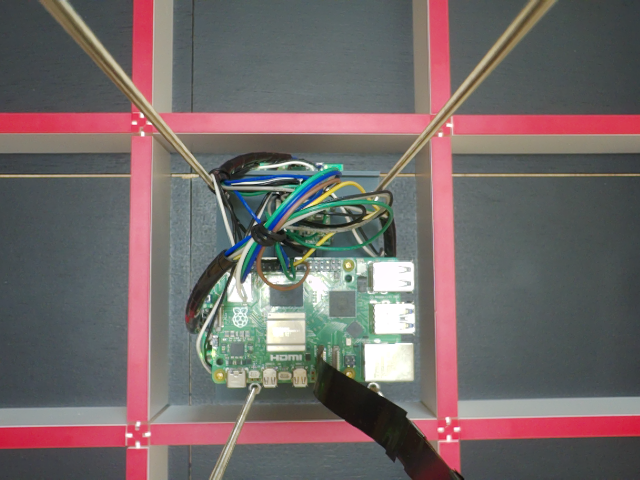
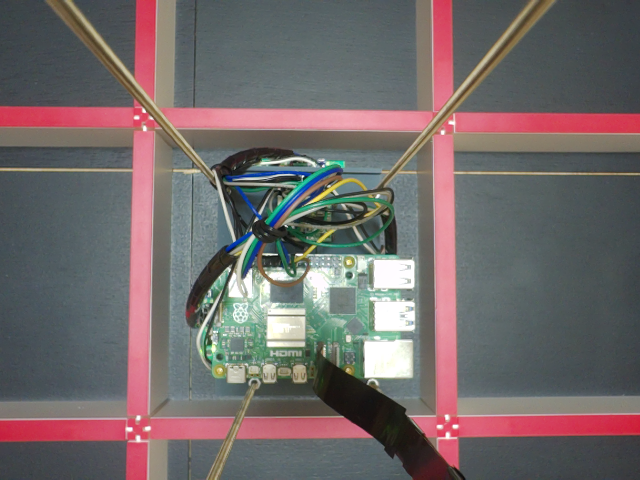
M6 #87: 傾き測定に当てはめの質と符号を足し、調整の指示を出す
実機で調整後に測り直したところ **ロールがほとんど動かなかった** (2.30->2.26°)。
測定側を検証できるようにする。

- **当てはめ残差**を出す。透視なら帯は 1 点で交わるはずなので、交わらせるのに要る
  回転の RMS が信号に対して小さくなければ、測っているのは傾きではない
  (自立式の壁が平行でないなど)。実測は 縦帯 残差 0.41° / 信号 3.62° で良好
- **帯が 3 本未満の軸は検証できない**ので `trustworthy` を False にする。
  横帯は画角の縦が 419mm しかなく 3 セル 540mm に届かないので、**構造的に 2 本しか
  写らない** = ロールは 1 枚では検証できない
- 消失点の当てはめを**帯の長さで重み付け**する。フレーム端の短い帯 (245px、他は
  600-900px) が梃子になって推定を振り回していた
- 傾きに**符号**を付ける (消失点は光軸が倒れている側にできる)。符号が無いと、
  機体を回して測り直しても「カメラ側」と「床側」を区別できない
- スペーサーをどちらへ何 mm 変えるかを出す。検証できていないときは調整させず、
  切り分けの手順 (180° / 90° 回転) を出す

Claude-Session: https://claude.ai/code/session_01HbxcKmGja78DirPqXizw8g

Changed region(s): [[0.0, 0.0, 1.0, 1.0], [0.5938, 0.9375, 0.625, 0.9688]]

diff --git a/src/krilly/perception/camera_tilt.py b/src/krilly/perception/camera_tilt.py
@@ -58,15 +58,36 @@ class TiltResult:
     vp_vertical: tuple[float, float] | None
     spread_h_deg: float | None  # 横帯どうしの角度のばらつき (収束の生の証拠)
     spread_v_deg: float | None
+    #: 透視モデルの当てはまり [deg]。各帯を消失点へ通すのに要る回転の RMS。
+    #: **これが傾きの角度に対して小さくないと、測っているのは傾きではない**
+    #: (自立式の壁が平行でない、レンズの歪曲が残っている、など)。
+    residual_h_deg: float | None
+    residual_v_deg: float | None
+
+    @property
+    def trustworthy(self) -> bool:
+        """透視モデルが信号に対して十分よく当てはまっているか (残差 < 信号の 1/3)。"""
+        for angle, resid in ((self.roll_deg, self.residual_h_deg),
+                             (self.pitch_deg, self.residual_v_deg)):
+            if angle is None or resid is None:
+                return False
+            if resid > abs(angle) / 3.0:
+                return False
+        return True
 
     def describe(self) -> str:
         def fmt(v, unit="°"):
             return "測定不能" if v is None else f"{v:+.2f}{unit}"
+        def q(angle, resid):
+            if angle is None or resid is None:
+                return ""
+            mark = "" if resid <= abs(angle) / 3.0 else "  <- 残差が大きい。要注意"
+            return f" (当てはめ残差 {resid:.2f}°){mark}"
         return (
             f"横帯 {len(self.horizontal)} 本 (角度の幅 {fmt(self.spread_h_deg)}) "
-            f"-> ロール {fmt(self.roll_deg)}\n"
+            f"-> ロール {fmt(self.roll_deg)}{q(self.roll_deg, self.residual_h_deg)}\n"
             f"縦帯 {len(self.vertical)} 本 (角度の幅 {fmt(self.spread_v_deg)}) "
-            f"-> ピッチ {fmt(self.pitch_deg)}"
+            f"-> ピッチ {fmt(self.pitch_deg)}{q(self.pitch_deg, self.residual_v_deg)}"
         )
 
 
@@ -143,15 +164,23 @@ def find_bands(mask: np.ndarray, horizontal: bool, min_length: int = 120,
     return out
 
 
-def vanishing_point(lines: list[Line]) -> tuple[float, float] | None:
-    """直線の束が最もよく交わる点 (最小二乗)。平行なら None。"""
+def vanishing_point(lines: list[Line], weighted: bool = True) -> tuple[float, float] | None:
+    """直線の束が最もよく交わる点 (最小二乗)。平行なら None。
+
+    **帯の長さで重み付けする。** 直線の向きの不確かさは長さに反比例するので、
+    短い帯ほど消失点の位置を粗くしか決められない。重み付けしないと、フレーム端の
+    短い帯 (実機で 245px、他は 600-900px) が端にあるぶん強い梃子になって推定を
+    振り回す — 実測で消失点の勾配が 16% 変わり、傾きの再現性が 0.07° から 1.1° に
+    悪化した。
+    """
     if len(lines) < 2:
         return None
     A, b = [], []
     for ln in lines:
         nx, ny = -ln.dy, ln.dx          # 法線
-        A.append([nx, ny])
-        b.append(nx * ln.px + ny * ln.py)
+        w = ln.length if weighted else 1.0
+        A.append([nx * w, ny * w])
+        b.append(w * (nx * ln.px + ny * ln.py))
     A = np.array(A); b = np.array(b)
     # 条件数が悪い (= ほぼ平行) ときは消失点が無限遠とみなす
     s = np.linalg.svd(A, compute_uv=False)
@@ -162,13 +191,38 @@ def vanishing_point(lines: list[Line]) -> tuple[float, float] | None:
 
 
 def _tilt_from_vp(vp: tuple[float, float] | None, principal: tuple[float, float],
-                  focal_px: float) -> float | None:
+                  focal_px: float, axis: int) -> float | None:
+    """消失点から傾きを出す。**符号は光軸が倒れている向き**。
+
+    消失点は光軸が倒れている側にできる (実測で確認: ピッチの消失点が画像の上に
+    あるとき、光軸の足はセル中心より前に落ちていた)。符号が無いと、機体を 180°
+    回して測り直したときに「カメラ側の傾き」と「床側の傾き」を区別できない。
+    """
     if vp is None:
         return None
     d = math.hypot(vp[0] - principal[0], vp[1] - principal[1])
     if d <= 0:
         return 90.0
-    return math.degrees(math.atan(focal_px / d))
+    sign = math.copysign(1.0, vp[axis] - principal[axis])
+    return sign * math.degrees(math.atan(focal_px / d))
+
+
+def _fit_residual_deg(lines: list[Line], vp: tuple[float, float] | None) -> float | None:
+    """各帯を消失点へ通すのに要る回転角の RMS [deg]。
+
+    透視なら 4 本は 1 点で交わるはずなので、これが小さいほどモデルが当たっている。
+    **傾きの角度と同じくらい大きいなら、それは傾きではなく壁の据え付け誤差**。
+    """
+    if vp is None or len(lines) < 3:
+        return None
+    out = []
+    for ln in lines:
+        nx, ny = -ln.dy, ln.dx
+        d = abs(nx * (vp[0] - ln.px) + ny * (vp[1] - ln.py))
+        D = math.hypot(vp[0] - ln.px, vp[1] - ln.py)
+        if D > 0:
+            out.append(math.degrees(math.atan2(d, D)))
+    return float(np.sqrt(np.mean(np.square(out)))) if out else None
 
 
 def _spread(lines: list[Line]) -> float | None:
@@ -193,8 +247,10 @@ def measure_tilt(mask: np.ndarray, focal_px: float,
     ver = find_bands(mask, False, min_length)
     vp_h, vp_v = vanishing_point(hor), vanishing_point(ver)
     return TiltResult(
-        roll_deg=_tilt_from_vp(vp_h, pp, focal_px),
-        pitch_deg=_tilt_from_vp(vp_v, pp, focal_px),
+        roll_deg=_tilt_from_vp(vp_h, pp, focal_px, axis=0),
+        pitch_deg=_tilt_from_vp(vp_v, pp, focal_px, axis=1),
         horizontal=hor, vertical=ver, vp_horizontal=vp_h, vp_vertical=vp_v,
         spread_h_deg=_spread(hor), spread_v_deg=_spread(ver),
+        residual_h_deg=_fit_residual_deg(hor, vp_h),
+        residual_v_deg=_fit_residual_deg(ver, vp_v),
     )

diff --git a/scripts/camera_fov.py b/scripts/camera_fov.py
@@ -23,6 +23,7 @@
 from __future__ import annotations
 
 import argparse
+import math
 from pathlib import Path
 
 import cv2
@@ -94,7 +95,42 @@ def measure(cam: Camera, pitch_mm: float, label: str, out_dir: Path | None,
              label, focal, px_x, camera_height_mm - wall_height_mm)
     for line in tilt.describe().splitlines():
         log.info("[%s]   %s", label, line)
+    _report_shim(label, tilt)
     return px_x, px_y, cx, cy, w, h
+
+
+#: カメラ取付穴の間隔 [mm] (Camera Module 3)。前後が 12.5、左右が 21.0。
+HOLE_SPAN_FWD, HOLE_SPAN_LAT = 12.5, 21.0
+
+
+def _report_shim(label: str, tilt) -> None:
+    """スペーサーをどちらへ何 mm 変えればよいかを出す。
+
+    カメラは天板の**下面**に下向きで付いているので、ある列のスペーサーを**長く**すると
+    その列が下がる。下向きカメラの法線は、前端を下げると後ろを向く。したがって
+    「光軸が前に倒れている」なら**前列を下げる = 前列のスペーサーを長くする**。
+    """
+    if not tilt.trustworthy:
+        log.warning("[%s]   **まだ調整しないこと。** 透視モデルの当てはまりを検証できて"
+                    "いない (帯が 3 本未満の軸がある)。下の切り分けを先に行う:", label)
+        log.warning("[%s]     1. 機体を 180° 回して同じセルで測る "
+                    "-> 符号が変わらなければカメラ側、反転すれば床/迷路側の傾き", label)
+        log.warning("[%s]     2. 機体を 90° 回して測る "
+                    "-> ロールとピッチが入れ替わり、検証できなかった軸が 4 本で測れる", label)
+        return
+    for name, angle, span, lo, hi in (
+        ("ピッチ", tilt.pitch_deg, HOLE_SPAN_FWD, "後列 (レンズ列, 機体 x=0)",
+         "前列 (機体 x=+12.5)"),
+        ("ロール", tilt.roll_deg, HOLE_SPAN_LAT, "左列 (機体 y=+10.5)",
+         "右列 (機体 y=-10.5)"),
+    ):
+        if angle is None:
+            continue
+        shim = abs(span * math.tan(math.radians(angle)))
+        # 消失点は光軸が倒れている側にできる。倒れている側の列を下げる = 長くする。
+        target = hi if angle > 0 else lo
+        log.info("[%s]   %s %+.2f° を消す: **%s のスペーサーを %.2fmm 長くする**",
+                 label, name, angle, target, shim)
 
 
 def main() -> None:
